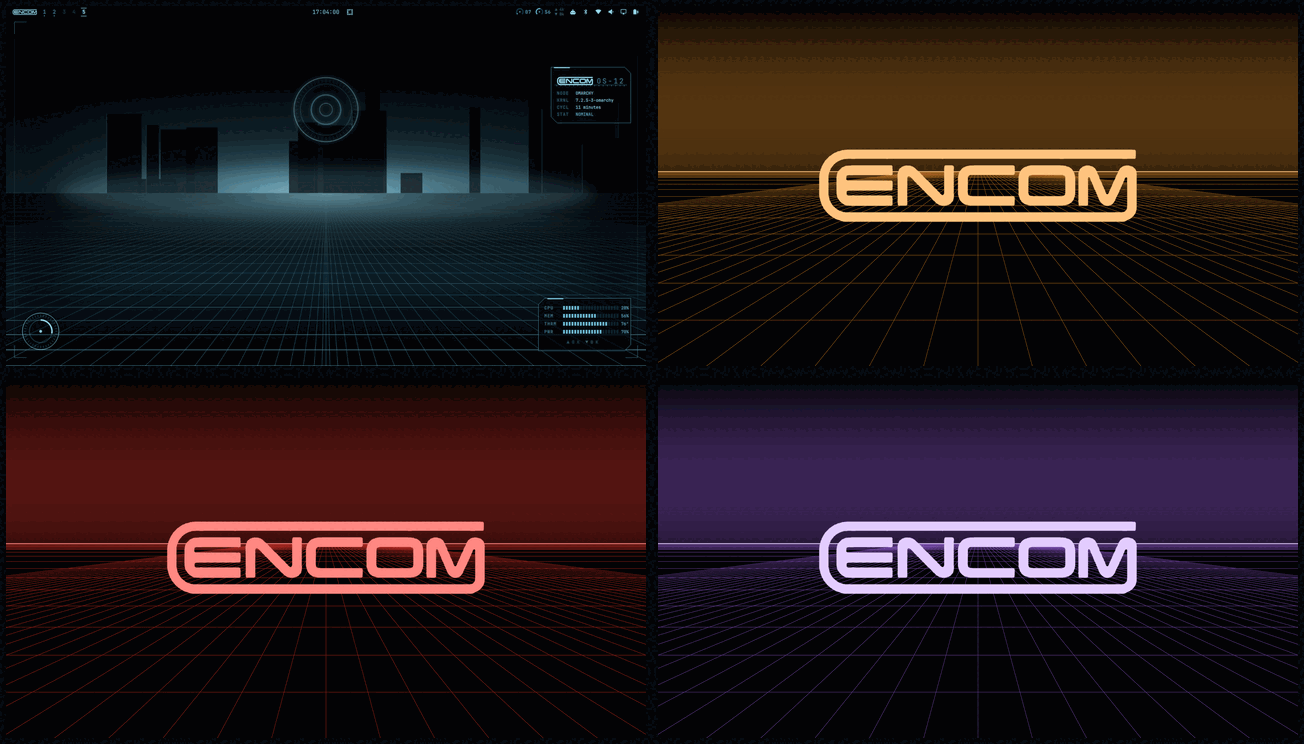
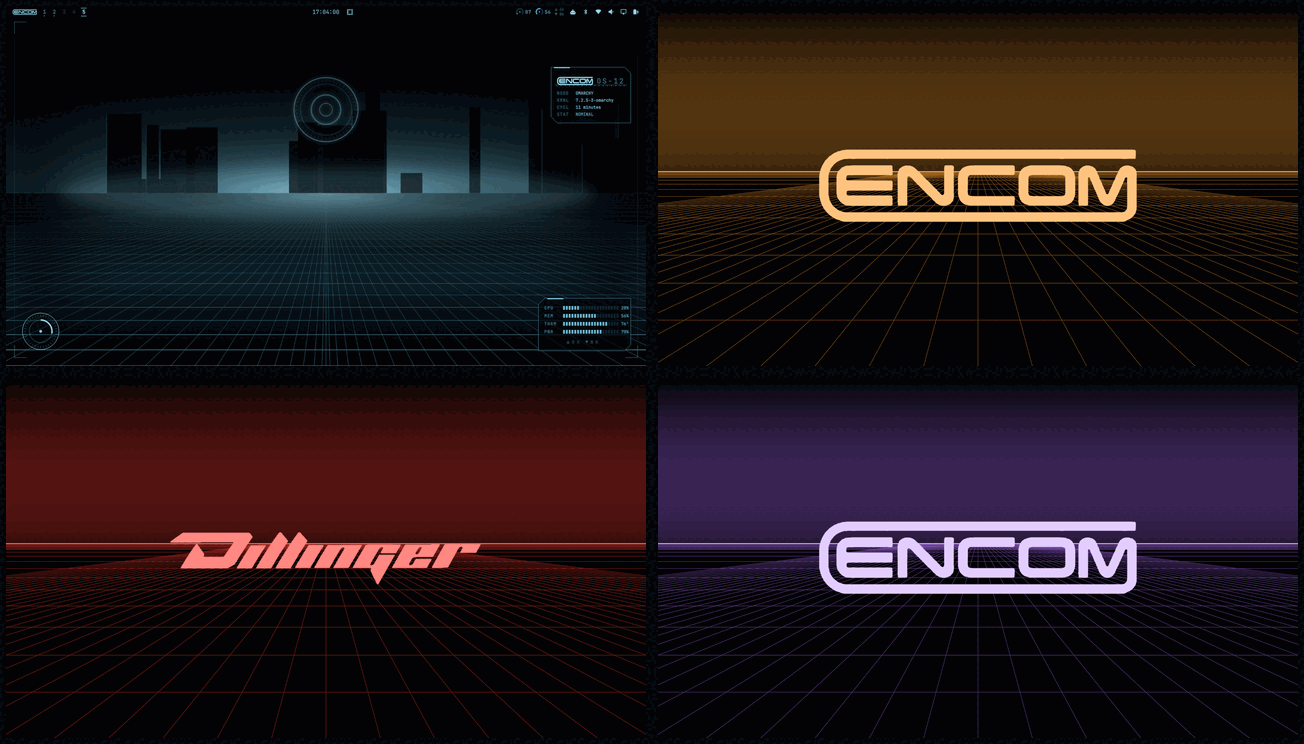
Ares becomes Dillinger Systems, with its own wordmark
The red theme is Dillinger's house now, not ENCOM's: theme/encom-ares is
theme/dillinger-systems, the sides in Light Cycles and the disc duel are
DILLINGER against ENCOM, and it carries the Dillinger Systems wordmark
traced from the Tron wiki's reference by tools/make-dillinger-logo.sh —
the same crack-following tracer the ENCOM mark came from, with the
reference inverted first since that one is white on black.

The mark used to be hardcoded to the base theme, so every theme showed
ENCOM's. Each theme now keeps its wordmark at logo/mark.svg and the bar,
the HUD and fastfetch read it from whichever theme is current, so it
follows a theme switch. The palette carries a "brand" with it, which
captions the HUD ident, the bar tooltip and both lock screens.

The installer renders one ASCII readout per installed theme from that
theme's own mark, and the uninstaller removes dillinger-* theme folders
and switches away from a Dillinger theme as it does an Encom one.

Changed region(s): [[0.1227, 0.6801, 0.3988, 0.8038]]

diff --git a/hud/Hud.qml b/hud/Hud.qml
@@ -438,11 +438,11 @@ Item {
           Row {
             spacing: 8
             bottomPadding: 14
-            // The ENCOM International mark from Tron: Legacy, traced to SVG in
-            // the theme (logo/encom-mark.svg). Rendered at 2x for crisp edges.
+            // The current theme's wordmark, traced to SVG and kept at
+            // logo/mark.svg in every theme. Rendered at 2x for crisp edges.
             Image {
               anchors.verticalCenter: parent.verticalCenter
-              source: "file://" + Quickshell.env("HOME") + "/.config/omarchy/themes/encom-os-12/logo/encom-mark.svg"
+              source: "file://" + Quickshell.env("HOME") + "/.local/state/omarchy/current/theme/logo/mark.svg"
               height: 18
               width: 77
               fillMode: Image.PreserveAspectFit
@@ -451,7 +451,8 @@ Item {
             }
             Text {
               anchors.verticalCenter: parent.verticalCenter
-              text: "OS-12"
+              // "OS-12" for ENCOM; a branded theme says who it belongs to.
+              text: (root.encom.brand || "ENCOM OS-12").replace(/^ENCOM /, "")
               color: root.cyan
               opacity: 0.7
               font.family: root.mono

diff --git a/bar/modules/encom-ident.qml b/bar/modules/encom-ident.qml
@@ -43,12 +43,13 @@ Item {
     anchors.centerIn: parent
     spacing: 6
 
-    // The ENCOM International mark on a horizontal bar; the disc sigil stays
-    // for vertical bars, which are too narrow for the wide logo.
+    // The current theme's wordmark on a horizontal bar; the disc sigil stays
+    // for vertical bars, which are too narrow for the wide logo. Every theme
+    // keeps its mark at logo/mark.svg, so this follows a theme switch.
     Image {
       visible: !root.vertical
       anchors.verticalCenter: parent.verticalCenter
-      source: "file://" + Quickshell.env("HOME") + "/.config/omarchy/themes/encom-os-12/logo/encom-mark.svg"
+      source: "file://" + Quickshell.env("HOME") + "/.local/state/omarchy/current/theme/logo/mark.svg"
       height: 12
       width: 52
       fillMode: Image.PreserveAspectFit
@@ -113,7 +114,7 @@ Item {
     acceptedButtons: Qt.LeftButton | Qt.RightButton
     onEntered: {
       root.hovered = true
-      if (root.bar) root.bar.showTooltip(root, "ENCOM OS-12  ·  Omarchy")
+      if (root.bar) root.bar.showTooltip(root, (root.encom.brand || "ENCOM OS-12") + "  ·  Omarchy")
     }
     onExited: {
       root.hovered = false

diff --git a/lock/DiscWars.qml b/lock/DiscWars.qml
@@ -363,7 +363,7 @@ Item {
     anchors.horizontalCenter: parent.horizontalCenter
     y: parent.height / 2 + 58
     z: 2000
-    text: "ENCOM OS-12  ·  SESSION LOCKED"
+    text: (arena.encomPalette.brand || "ENCOM OS-12") + "  ·  SESSION LOCKED"
     color: arena.program
     opacity: 0.75
     font.family: "JetBrainsMono Nerd Font"

diff --git a/lock/Digitize.qml b/lock/Digitize.qml
@@ -101,7 +101,7 @@ Item {
     anchors.horizontalCenter: parent.horizontalCenter
     y: parent.height / 2 + 58
     z: 50
-    text: "ENCOM OS-12  ·  SESSION LOCKED"
+    text: (field.encomPalette.brand || "ENCOM OS-12") + "  ·  SESSION LOCKED"
     color: field.accent
     opacity: 0.7
     font.family: "JetBrainsMono Nerd Font"

diff --git a/tools/make-theme.py b/tools/make-theme.py
@@ -42,8 +42,8 @@ FAMILY = {
 VARIANTS = {
     "encom-clu": ("#ff9d2e", "#38c6f4", "ENCOM OS-12 — Clu",
                   "Clu's grid: amber circuitry, cold cyan alarms."),
-    "encom-ares": ("#ff3b30", "#7fd0ff", "ENCOM OS-12 — Ares",
-                   "Red sector: crimson circuitry, ice-blue alarms."),
+    "dillinger-systems": ("#ff3b30", "#7fd0ff", "Dillinger Systems",
+                          "Dillinger's grid: crimson circuitry, ice-blue alarms."),
     "encom-tron-82": ("#b06cff", "#ffc300", "ENCOM OS-12 — 1982",
                       "The first grid: violet circuitry, amber alarms."),
 }
@@ -171,9 +171,8 @@ def wallpapers(out, accent, accent_hi, ink):
         svg_file.unlink()
 
 
-def logo_art(out, accent, accent_hi, ink):
-    """The ENCOM mark in the theme's colour: boot splash and preview art."""
-    mark = BASE / "logo" / "encom-mark.svg"
+def logo_art(out, accent, accent_hi, ink, mark):
+    """The theme's wordmark in its own colour: boot splash and preview art."""
     tmp = out / "_mark.png"
     run(["rsvg-convert", "-w", "760", "-o", str(tmp), str(mark)])
     run(["magick", str(tmp), "-background", "none", "-fill", accent_hi, "-colorize", "100",
@@ -201,10 +200,21 @@ def build(name):
                       "# " + blurb, text, count=1, flags=re.M)
         (out / f).write_text(text)
     shutil.copy(BASE / "icons.theme", out / "icons.theme")
-    shutil.copytree(BASE / "logo", out / "logo", dirs_exist_ok=True)
+    # A theme with a wordmark of its own keeps it; the rest take ENCOM's.
+    brand, markname = BRAND.get(name, ("ENCOM OS-12", "encom-mark.svg"))
+    own = THEMES_DIR / name / "logo" / markname
+    if not own.exists():
+        shutil.copytree(BASE / "logo", out / "logo", dirs_exist_ok=True)
+    else:
+        shutil.copy(BASE / "logo" / "ascii.py", out / "logo" / "ascii.py")
+    mark = out / "logo" / markname
+    # Everything that draws the mark reads logo/mark.svg from whichever theme
+    # is current, so it follows a theme switch without being told.
+    shutil.copy(mark, out / "logo" / "mark.svg")
 
     palette = json.loads(swap((BASE / "encom.json").read_text(), mapping))
     palette["portrait"] = PORTRAIT[name]
+    palette["brand"] = brand
     palette["lockScene"] = LOCK_SCENE.get(name, "duel")
     if name in CLASSIC:
         palette["classic"] = True
@@ -214,7 +224,7 @@ def build(name):
     accent = mapping["#6fc3df"]
     assert accent.lower() == accent.lower()
     wallpapers(out, accent, mapping["#a8ecff"], mapping["#010305"])
-    logo_art(out, accent, mapping["#a8ecff"], mapping["#010305"])
+    logo_art(out, accent, mapping["#a8ecff"], mapping["#010305"], mark)
     print(name, "accent", accent, "contrast", mapping["#ff8c21"])
 
 
@@ -224,14 +234,19 @@ LOCK_SCENE = {"encom-tron-82": "digitise"}
 # classic cycle model and its light trails — rather than our Legacy-era
 # ones. They came with 3dLightCycles, which this screensaver started from.
 CLASSIC = {"encom-tron-82"}
-PORTRAIT = {"encom-clu": "sentinel", "encom-ares": "glitch", "encom-tron-82": "polyhedron"}
+PORTRAIT = {"encom-clu": "sentinel", "dillinger-systems": "glitch",
+            "encom-tron-82": "polyhedron"}
+
+# Whose house this is: the wordmark a theme carries, and the name that
+# goes with it on the bar, the HUD and the lock screen.
+BRAND = {"dillinger-systems": ("DILLINGER SYSTEMS", "dillinger-mark.svg")}
 
 # The two sides in Light Cycles and the disc duel. By default they are the
 # theme's accent against its contrast colour; 1982 instead takes the colours
 # the original light cycle game was played in.
 SIDES = {
     "encom-clu": {"sideAName": "CLU", "sideBName": "PROGRAMS"},
-    "encom-ares": {"sideAName": "SENTINELS", "sideBName": "PROGRAMS"},
+    "dillinger-systems": {"sideAName": "DILLINGER", "sideBName": "ENCOM"},
     "encom-tron-82": {"sideA": "#3b7bff", "sideAHi": "#d7e6ff",
                       "sideB": "#ffbe00", "sideBHi": "#fff3cf",
                       "sideAName": "USERS", "sideBName": "PROGRAMS"},

diff --git a/README.md b/README.md
@@ -1,6 +1,6 @@
 # ENCOM OS-12 for Omarchy
 
-A *Tron: Legacy* desktop for [Omarchy](https://omarchy.org): the ENCOM OS-12 look, from the boot splash to the screensaver, built as a working desktop rather than just a wallpaper. It comes in four colours — OS-12 cyan, Clu orange, Ares red and 1982 violet.
+A *Tron: Legacy* desktop for [Omarchy](https://omarchy.org): the ENCOM OS-12 look, from the boot splash to the screensaver, built as a working desktop rather than just a wallpaper. It comes in four themes — OS-12 cyan, Clu orange, Dillinger Systems red and 1982 violet.
 
 ![Desktop](docs/desktop.png)
 
@@ -78,10 +78,10 @@ The same desktop comes in four colours. Everything above follows the one you pic
 |---|---|---|
 | **ENCOM OS-12** | Tron cyan, Clu orange for alarms | PROGRAMS vs CLU |
 | **ENCOM Clu** | Clu's orange, cyan for alarms | CLU vs PROGRAMS |
-| **ENCOM Ares** | Ares red over black, cold blue accents | SENTINELS vs PROGRAMS |
+| **Dillinger Systems** | Dillinger red over black, ice-blue alarms, and its own wordmark in place of ENCOM's | DILLINGER vs ENCOM |
 | **ENCOM 1982** | The first film: violet and amber | USERS vs PROGRAMS |
 
-Switch with Omarchy's own theme menu, where they're listed as *Encom Os 12*, *Encom Clu*, *Encom Ares* and *Encom Tron 82*, or with `omarchy theme set "Encom Ares"`. Nothing needs rebuilding: every piece reads the current theme's `encom.json` and repaints itself. The Boardroom is recoloured in the browser as it loads: every cyan in it turns the theme's accent and every amber the theme's second colour, each keeping its own lightness so the layout stays readable. Where a theme's accent is a colour the projection already used, the two swap places rather than collapse into one.
+Switch with Omarchy's own theme menu, where they're listed as *Encom Os 12*, *Encom Clu*, *Dillinger Systems* and *Encom Tron 82*, or with `omarchy theme set "Dillinger Systems"`. Nothing needs rebuilding: every piece reads the current theme's `encom.json` and repaints itself. The Boardroom is recoloured in the browser as it loads: every cyan in it turns the theme's accent and every amber the theme's second colour, each keeping its own lightness so the layout stays readable. Where a theme's accent is a colour the projection already used, the two swap places rather than collapse into one.
 
 **1982 goes further.** The light cycles go back to the original game's blue against yellow, and to the pieces that came with the game this screensaver started from: its arena wall panels, its classic cycle model and its light trails, in place of our Legacy-era ones. (One palette key, `classic`, turns all three on.)
 
@@ -104,7 +104,7 @@ tools/make-theme.py                 # rebuild all variants from theme/encom-os-1
 tools/make-portrait.py encom-ares   # redraw one theme's alert portrait
 ```
 
-`make-theme.py` holds a small table of target colours per theme and restyles the base theme's files into new ones, generating the wallpapers, the logo, the boot art, the preview and the palette. Each palette carries `lockScene` (`duel` or `digitise`), `portrait` (which portrait is drawn: `sentinel`, `glitch` or `polyhedron`) and the two sides' names and colours. `make-portrait.py` draws the portrait as SVG frames and assembles the GIF; drop in a GIF of your own at `theme/<name>/portrait.gif` if you'd rather.
+`make-theme.py` holds a small table of target colours per theme and restyles the base theme's files into new ones, generating the wallpapers, the logo, the boot art, the preview and the palette. A theme can bring its own wordmark instead of ENCOM's — Dillinger Systems does — and every theme keeps it at `logo/mark.svg`, which the bar, the HUD and the terminal readout all read from the current theme, so the mark follows a theme switch. Each palette carries `lockScene` (`duel` or `digitise`), `portrait` (which portrait is drawn: `sentinel`, `glitch` or `polyhedron`) and the two sides' names and colours. `make-portrait.py` draws the portrait as SVG frames and assembles the GIF; drop in a GIF of your own at `theme/<name>/portrait.gif` if you'd rather.
 
 ## Install
 
@@ -173,7 +173,7 @@ This stands on other people's work. Thank you:
 - **[DB-IP](https://db-ip.com)**: IP to City Lite database, [CC BY 4.0](https://creativecommons.org/licenses/by/4.0/). The installer downloads it.
 - **[GNOME Adwaita](https://gitlab.gnome.org/GNOME/adwaita-icon-theme)**: the cursor shapes Encom-Cyan is recoloured from.
 - **[Wikimedia EventStreams](https://stream.wikimedia.org)**: the live Wikipedia feed.
-- **[Tron wiki](https://tron.fandom.com/wiki/ENCOM)**: the reference image the ENCOM logo was traced from.
+- **[Tron wiki](https://tron.fandom.com/wiki/ENCOM)**: the reference images the ENCOM and [Dillinger Systems](https://tron.fandom.com/wiki/Dillinger_Systems) logos were traced from.
 
 *Tron*, *Tron: Legacy* and **ENCOM** are trademarks of Disney. This is an unofficial fan project, not affiliated with or endorsed by Disney. See [CREDITS.md](CREDITS.md) for licences.
 

diff --git a/CREDITS.md b/CREDITS.md
@@ -101,12 +101,18 @@ The live Wikipedia view reads Wikimedia's public
 [EventStreams](https://wikitech.wikimedia.org/wiki/Event_Platform/EventStreams) recentchange feed,
 only while that view is on screen. Edit content is © its contributors under CC BY-SA.
 
-## ENCOM, Tron and Disney
+## ENCOM, Dillinger Systems, Tron and Disney
 
-*Tron*, *Tron: Legacy* and **ENCOM** are trademarks of Disney. The ENCOM International logo in
-`theme/encom-os-12/logo/` was traced (see `tools/make-logo.sh`) from the reference image on the
-[Tron wiki](https://tron.fandom.com/wiki/ENCOM). This is an unofficial fan project, not affiliated
-with or endorsed by Disney; the logo is not covered by this repository's MIT licence.
+*Tron*, *Tron: Legacy*, *Tron: Ares*, **ENCOM** and **Dillinger Systems** are trademarks of Disney.
+Two wordmarks here were traced from reference images on the Tron wiki:
+
+| Logo | Reference | Traced by |
+|---|---|---|
+| ENCOM International, in `theme/encom-os-12/logo/` | [Tron wiki: ENCOM](https://tron.fandom.com/wiki/ENCOM) | `tools/make-logo.sh` |
+| Dillinger Systems, in `theme/dillinger-systems/logo/` | [Tron wiki: Dillinger Systems](https://tron.fandom.com/wiki/Dillinger_Systems) | `tools/make-dillinger-logo.sh` |
+
+This is an unofficial fan project, not affiliated with or endorsed by Disney; neither logo is
+covered by this repository's MIT licence.
 
 The comms portrait on the Boardroom's alert box (`boardroom/assets/alert-portrait.gif`) is a short
 clip of Marv, Sam Flynn's Boston terrier, from *Tron: Legacy* (© Disney), reduced to 64 colours. It
